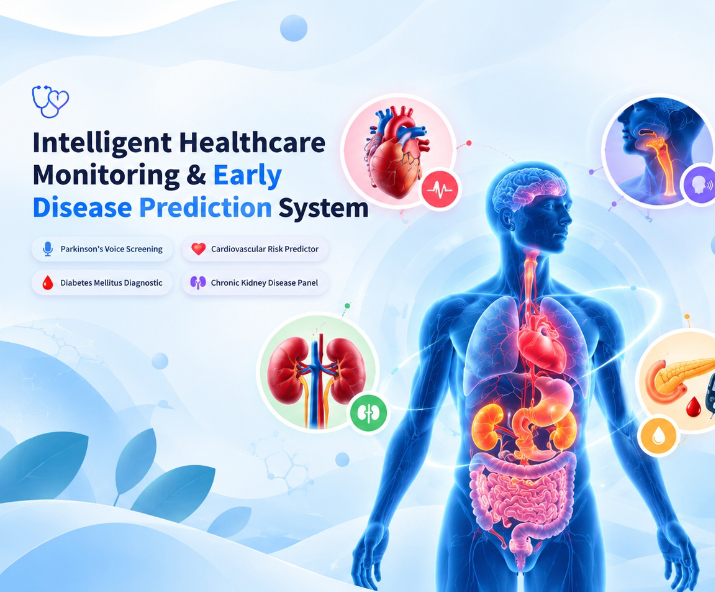
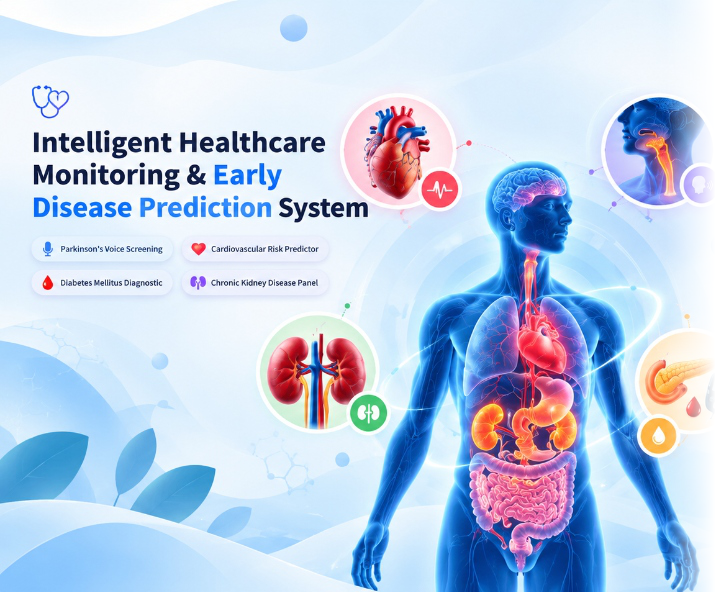
style: full-bleed medical hero atmosphere and unified portal card matching exact mockup

Changed region(s): [[0.9231, 0.152, 1.0, 1.0]]

diff --git a/app.py b/app.py
@@ -387,10 +387,60 @@ banner_img_path = os.path.join(base_dir, "assets", "healthcare_banner.png")
 # GATEKEEPER: LANDING HERO & USER SELF-REGISTRATION / LOGIN
 # -------------------------------------------------------------
 if st.session_state.authenticated_user is None:
-    st.markdown("<div style='height: 8px;'></div>", unsafe_allow_html=True)
+    # LANDING PAGE STYLING: EXACT MATCH TO MOCKUP
+    st.markdown("""
+    <style>
+        [data-testid="stAppViewContainer"] {
+            background: radial-gradient(circle at 10% 20%, #f0f7ff 0%, #e0f2fe 55%, #f8fafc 100%) !important;
+        }
+        .block-container {
+            max-width: 1400px !important;
+            padding-top: 1.5rem !important;
+            padding-bottom: 2rem !important;
+            padding-left: 2rem !important;
+            padding-right: 2rem !important;
+        }
+        /* Make column 2 the single cohesive white card */
+        [data-testid="column"]:nth-of-type(2) {
+            background: #ffffff !important;
+            border-radius: 24px !important;
+            padding: 28px 26px 22px !important;
+            box-shadow: 0 20px 45px -10px rgba(15, 23, 42, 0.08), 0 0 1px 1px rgba(0, 0, 0, 0.04) !important;
+            border: 1px solid rgba(226, 232, 240, 0.8) !important;
+            margin-top: 6px !important;
+        }
+        [data-testid="stForm"] {
+            background: transparent !important;
+            border: none !important;
+            padding: 0 !important;
+            box-shadow: none !important;
+        }
+        .stTextInput input {
+            background-color: #f8fafc !important;
+            border: 1px solid #cbd5e1 !important;
+            border-radius: 10px !important;
+            color: #0f172a !important;
+            padding: 10px 14px !important;
+        }
+        .stFormSubmitButton button {
+            background: linear-gradient(135deg, #ff4b4b 0%, #ef4444 100%) !important;
+            color: #ffffff !important;
+            border: none !important;
+            border-radius: 12px !important;
+            font-weight: 600 !important;
+            padding: 12px 20px !important;
+            font-size: 1.0rem !important;
+            box-shadow: 0 4px 14px rgba(239, 68, 68, 0.3) !important;
+        }
+        .stFormSubmitButton button:hover {
+            background: linear-gradient(135deg, #ef4444 0%, #dc2626 100%) !important;
+            box-shadow: 0 6px 18px rgba(239, 68, 68, 0.45) !important;
+        }
+    </style>
+    """, unsafe_allow_html=True)
 
-    # 2-Column Hero: Left = Unified Medical Graphic (Title + Anatomy), Right = Clinical Decision Portal
-    w_col_img, w_col_info = st.columns([1.35, 1], gap="medium")
+    # 2-Column Hero: Left = Wide Medical Graphic (Title + Anatomy), Right = Single Clinical Decision Portal Card
+    w_col_img, w_col_info = st.columns([1.75, 1], gap="small")
 
     with w_col_img:
         if os.path.exists(welcome_hero_path):
@@ -400,17 +450,15 @@ if st.session_state.authenticated_user is None:
 
     with w_col_info:
         st.markdown("""
-        <div class="welcome-card" style="margin-bottom: 14px;">
-            <div style="display: flex; align-items: center; gap: 8px; margin-bottom: 6px;">
-                <span style="font-size: 1.4rem;">🏥</span>
-                <h2 style="color: #0f172a; margin: 0; font-size: 1.45rem; font-weight: 700; letter-spacing: -0.3px;">
-                    Clinical Decision Portal
-                </h2>
-            </div>
-            <p style="color: #64748b; font-size: 0.88rem; line-height: 1.5; margin: 0;">
-                Self-register as a patient to screen for potential health risks and get AI-powered predictions, or login as a clinic admin to manage records.
-            </p>
+        <div style="display: flex; align-items: center; gap: 8px; margin-bottom: 6px;">
+            <span style="font-size: 1.5rem;">🏥</span>
+            <h2 style="color: #0f172a; margin: 0; font-size: 1.45rem; font-weight: 700; letter-spacing: -0.3px;">
+                Clinical Decision Portal
+            </h2>
         </div>
+        <p style="color: #64748b; font-size: 0.88rem; line-height: 1.5; margin: 0 0 16px 0;">
+            Self-register as a patient to screen for potential health risks and get AI-powered predictions, or login as a clinic admin to manage records.
+        </p>
         """, unsafe_allow_html=True)
 
         auth_tab_login, auth_tab_reg = st.tabs(["🔑 Sign In", "📝 Self-Registration (Sign Up)"])
@@ -467,51 +515,6 @@ if st.session_state.authenticated_user is None:
                             st.rerun()
                         else:
                             st.error(f"⚠ {res['error']}")
-
-    st.markdown("<br>", unsafe_allow_html=True)
-
-    # Bottom Overview metric badges on Welcome Page
-    c1, c2, c3, c4 = st.columns(4)
-    with c1:
-        st.markdown("""
-        <div class="metric-card">
-            <div class="metric-title">Physiological Systems</div>
-            <div class="metric-value">4 Modules</div>
-            <div class="metric-desc">Neuro, Cardio, Metabolic, Renal</div>
-        </div>
-        """, unsafe_allow_html=True)
-    with c2:
-        st.markdown("""
-        <div class="metric-card">
-            <div class="metric-title">Hardware Dependence</div>
-            <div class="metric-value">0% External</div>
-            <div class="metric-desc">Pure software algorithms & standard labs</div>
-        </div>
-        """, unsafe_allow_html=True)
-    with c3:
-        st.markdown("""
-        <div class="metric-card">
-            <div class="metric-title">Cloud Database</div>
-            <div class="metric-value">Permanent</div>
-            <div class="metric-desc">MongoDB Atlas persistent storage</div>
-        </div>
-        """, unsafe_allow_html=True)
-    with c4:
-        st.markdown("""
-        <div class="metric-card">
-            <div class="metric-title">Speech Accessibility</div>
-            <div class="metric-value">13 Languages</div>
-            <div class="metric-desc">Full native voice synthesis</div>
-        </div>
-        """, unsafe_allow_html=True)
-
-    st.markdown("---")
-    st.markdown("""
-    <div style="text-align: center; color: #64748b; font-size: 0.85rem;">
-        Intelligent Healthcare Monitoring and Early Disease Prediction System • Semester 5 Design Project<br>
-        Built with Python, Streamlit, Scikit-Learn, and Librosa • 100% Software-Based Clinical Decision Support
-    </div>
-    """, unsafe_allow_html=True)
 
     st.stop()
 
